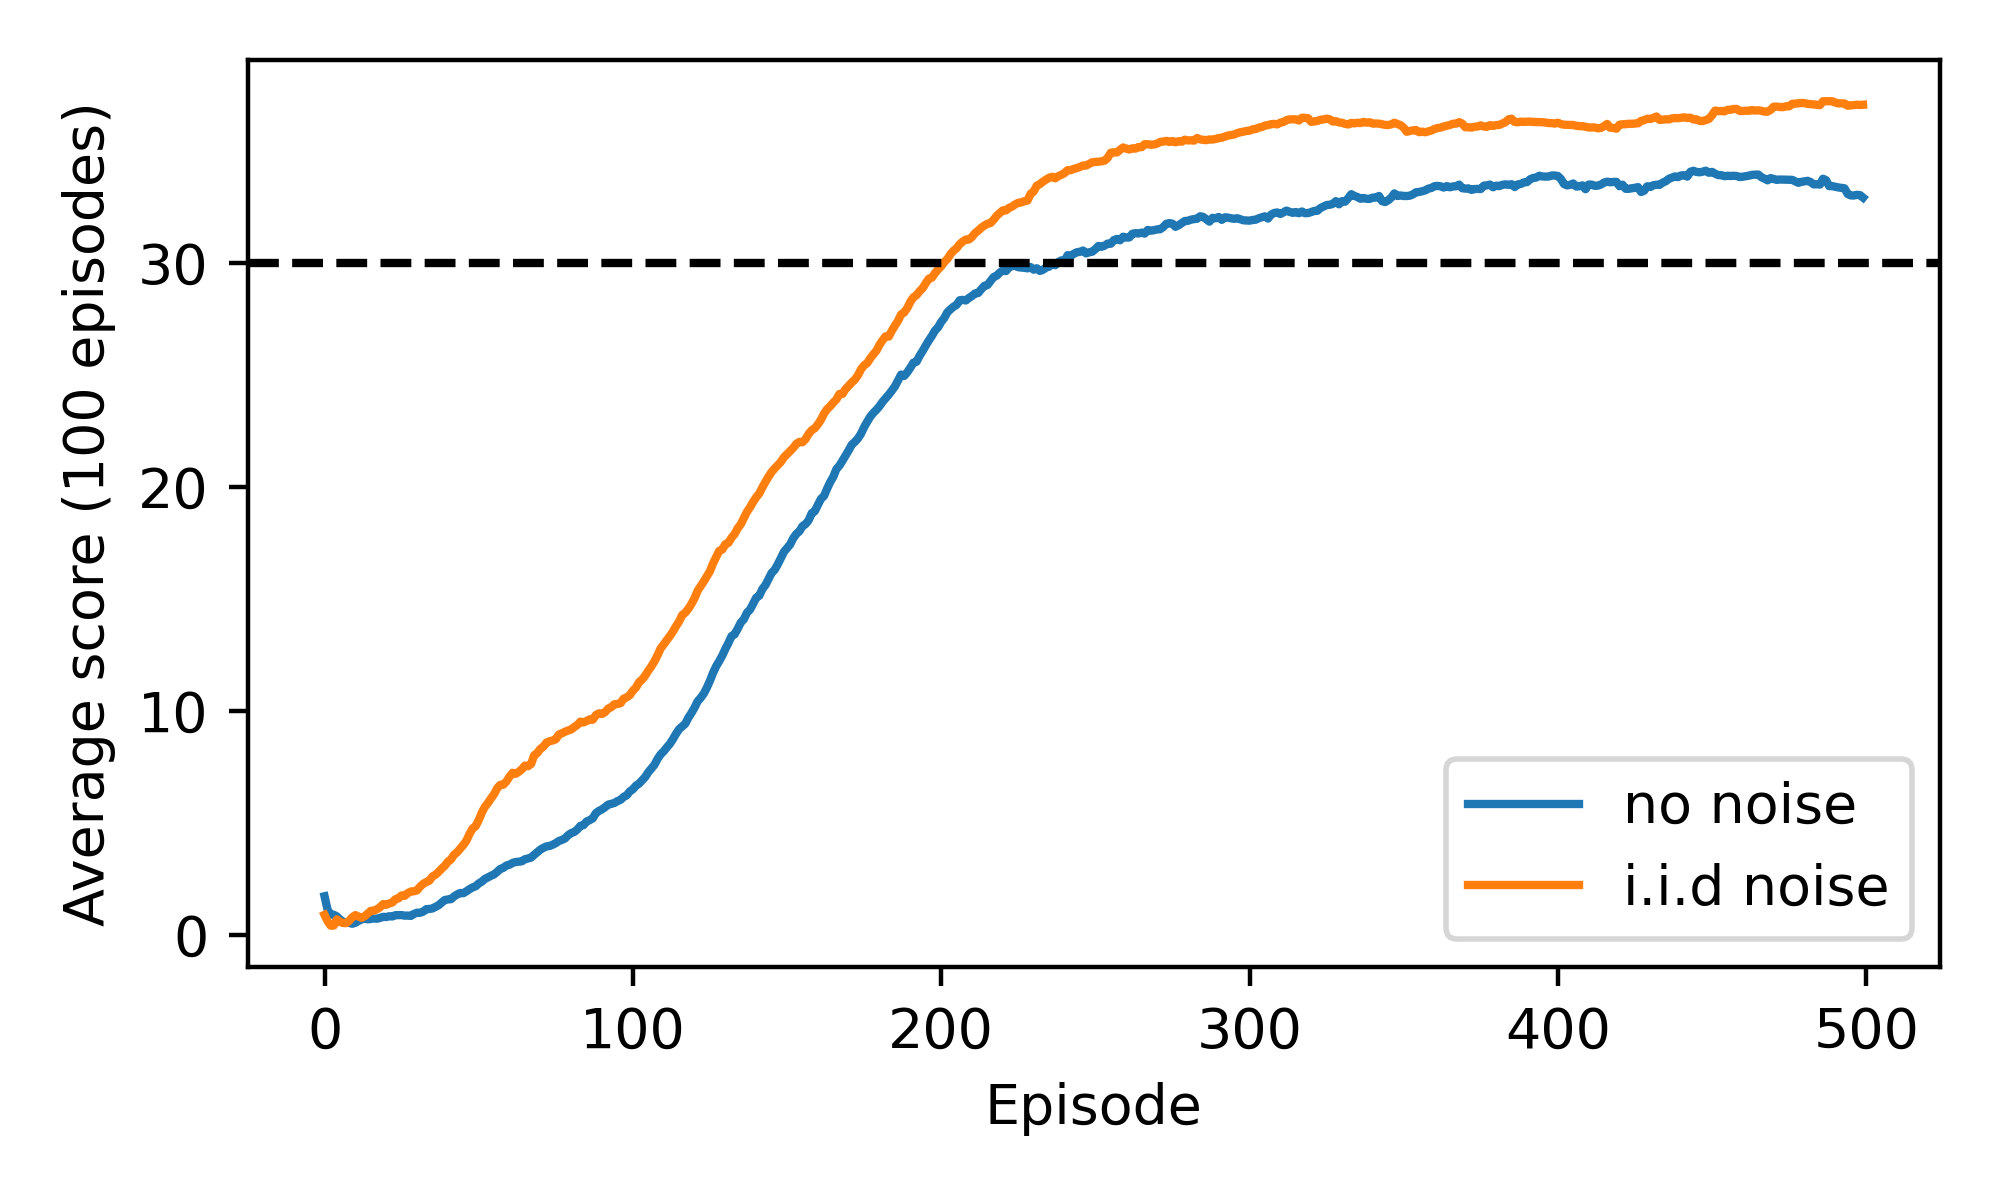
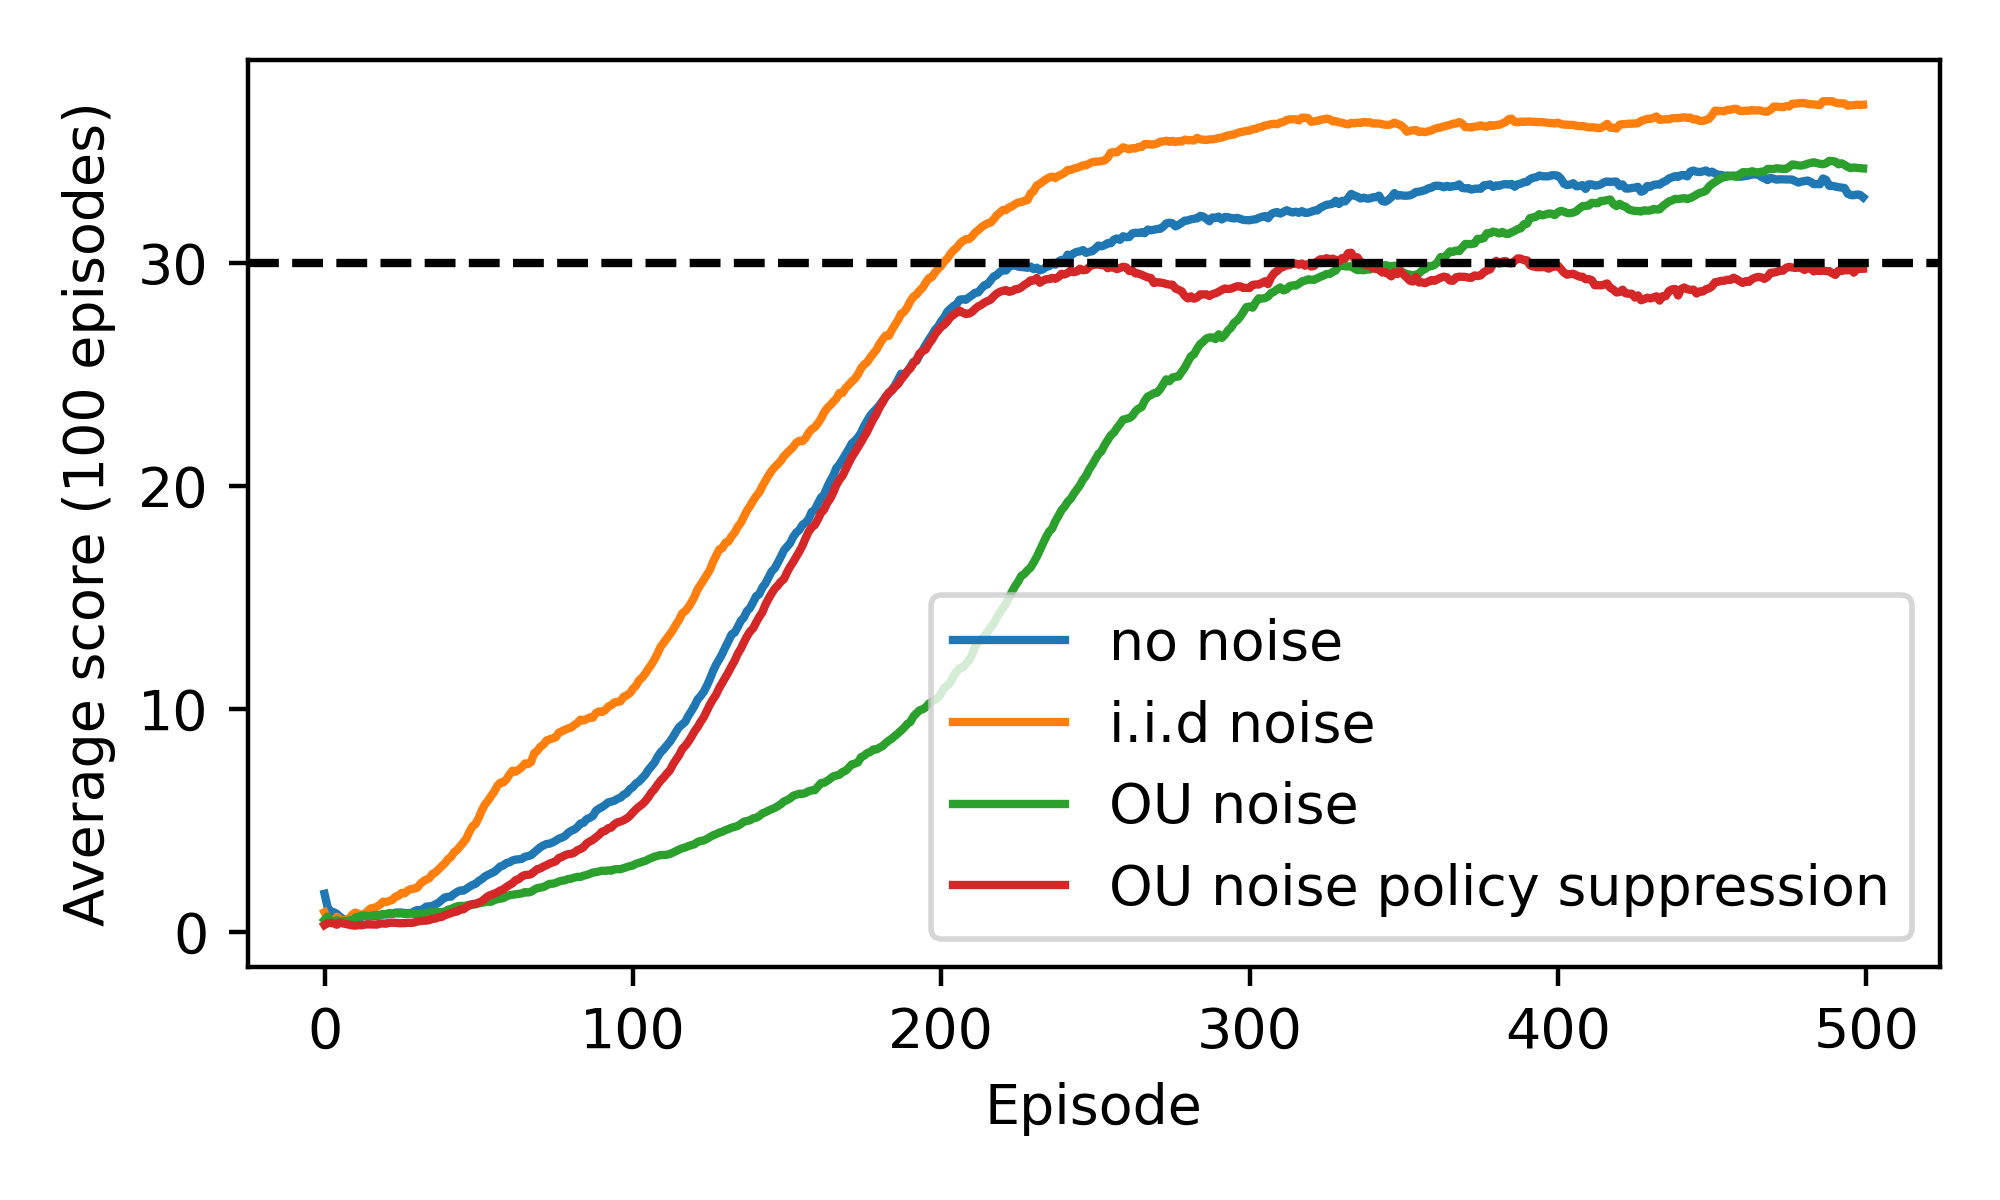
feat: Exploratory runs with noise generator

diff --git a/continuous_control.py b/continuous_control.py
@@ -18,7 +18,8 @@ control of an actuated robotic arm.
 from unityagents import UnityEnvironment
 from drlnd.common.agents import DDPGAgent
 from drlnd.common.agents.utils import ReplayBuffer, ActionType
-from drlnd.common.utils import get_next_results_directory, path_from_project_home
+from drlnd.common.utils import get_next_results_directory, path_from_project_home, \
+    OrnsteinUhlenbeckProcess, LinearSequence
 import numpy as np
 import torch
 import click
@@ -62,46 +63,62 @@ def cli():
 def train(n_episodes, note):
     """Train an agent in the 'one_agent' environment using DDPG.
     """
-    env, brain_name, num_agents, action_size, state_size = get_unity_env('./unity_environments/one_agent/Reacher_Linux/Reacher.x86_64')
+    env, brain_name, num_agents, action_size, state_size = \
+        get_unity_env('./unity_environments/one_agent/Reacher_Linux/Reacher.x86_64')
 
-    buffer = ReplayBuffer(action_size, int(1e6), 64, 1234, action_dtype = ActionType.CONTINUOUS)
+    buffer = ReplayBuffer(
+        action_size, 
+        int(1e6), 
+        64, 
+        1234, 
+        action_dtype = ActionType.CONTINUOUS
+        )
+
     agent = DDPGAgent(state_size, action_size, buffer)
 
     episode_scores = deque(maxlen=100)
     average_scores = []
+
     noise_fn_taper = 250
     scale = 1.0
+
     for i in range(n_episodes):
         print(f"Episode: {i}")
         env_info = env.reset(train_mode=True)[brain_name]
-        state = env_info.vector_observations                   # get the current state (for each agent)
+        state = env_info.vector_observations
         #print(f"Initial state: {state}")
-        score = 0.0                                            # initialize the score (for each agent)
+        score = 0.0
         
         # Include some noise in the action selection, which we linearly scale
         scale = max([1e-4, scale*(1.0-(float(i)/noise_fn_taper))])
-        noise_fn = lambda : torch.from_numpy(np.random.normal(loc=0.0, scale=scale, size=(1, action_size))).float()
+        #noise_fn = lambda : torch.from_numpy(np.random.normal(loc=0.0, scale=scale, size=(1, action_size))).float()
+        dt = np.random.choice([1e-2, 5e-2, 1e-1])
+        theta = np.random.choice([0.1, 0.5, 1.0])
+        noise_generator = OrnsteinUhlenbeckProcess((1, action_size), scale, dt=dt, theta=theta)
+        noise_fn = lambda : torch.from_numpy(noise_generator.sample()).float()
         while True:
             action = (
                 agent.act(
-                    torch.from_numpy(state).float(), 
+                    torch.from_numpy(state).float(),
+                    policy_suppression = (1.0 - scale), 
                     noise_func = noise_fn)
                     .numpy()
                     )
-            env_info = env.step([action])[brain_name]           # send all actions to tne environment
-            next_state = env_info.vector_observations         # get next state (for each agent)
-            reward = env_info.rewards                         # get reward (for each agent)
-            done = env_info.local_done                        # see if episode finished
+            env_info = env.step([action])[brain_name]
+            next_state = env_info.vector_observations
+            reward = env_info.rewards
+            done = env_info.local_done
             agent.replay_buffer.add(*state, *action, *reward, *next_state, *done)
             agent.learn(0.99)
 
-            score += env_info.rewards[0]                         # update the score (for each agent)
-            state = next_state                               # roll over states to next time step
-            if np.any(done):                                  # exit loop if episode finished
+            score += env_info.rewards[0]
+            state = next_state
+            if np.any(done):
                 break
+
         episode_scores.append(score)
         average_scores.append(np.mean(episode_scores))
-        print('Total score (averaged over agents) this episode: {}'.format(np.mean(score)))
+        print('Total score this episode: {}'.format(np.mean(score)))
 
     results_directory = get_next_results_directory()
     agent.save_weights(results_directory)
@@ -131,28 +148,31 @@ def run(weights_path: str, n_episodes: int):
     """Initialise an agent using pre-trained network weights and observe the 
     agent's interaction with the environment.
     """
-    env, brain_name, num_agents, action_size, state_size = get_unity_env('./unity_environments/one_agent/Reacher_Linux/Reacher.x86_64')
+    env, brain_name, num_agents, action_size, state_size = \
+        get_unity_env('./unity_environments/one_agent/Reacher_Linux/Reacher.x86_64')
 
-    buffer = ReplayBuffer(action_size, int(1e6), 64, 1234, action_dtype = ActionType.CONTINUOUS)
-    agent = DDPGAgent(state_size, action_size, buffer)
+    agent = DDPGAgent(state_size, action_size)
     if weights_path is None:
         weights_path = path_from_project_home('./resources/solved_weights/')
     agent.load_weights(weights_path)
+
+    noisy_actor = OrnsteinUhlenbeckProcess((1, action_size), 1.0, theta=.45, dt=1e-1)
+    #noisy_actor = lambda : np.random.normal(loc=0.0, scale=scale, size=(1, action_size))
 
     for i in range(n_episodes):
         print(f"Episode: {i}")
         env_info = env.reset(train_mode=False)[brain_name]
         state = env_info.vector_observations
-        score = 0.0                                            # initialize the score (for each agent)
+        score = 0.0
         for i in range(300):
-            action = agent.act(torch.from_numpy(state).float()).numpy() # select an action (for each agent)
-            env_info = env.step([action])[brain_name]           # send all actions to tne environment
-            state = env_info.vector_observations         # get next state (for each agent)
-            reward = env_info.rewards                         # get reward (for each agent)
-            done = env_info.local_done                        # see if episode finished
+            action = noisy_actor.sample() #agent.act(torch.from_numpy(state).float()).numpy() # select an action (for each agent)
+            env_info = env.step([action])[brain_name]
+            state = env_info.vector_observations
+            reward = env_info.rewards
+            done = env_info.local_done
 
-            score += env_info.rewards[0]                         # update the score (for each agent)
-            if np.any(done):                                  # exit loop if episode finished
+            score += env_info.rewards[0]
+            if np.any(done):
                 break
         print('Total score (averaged over agents) this episode: {}'.format(np.mean(score)))
 

diff --git a/Report.md b/Report.md
@@ -60,10 +60,10 @@ We have investigated how the learning process is affected by the particular
 distribution of noise that is added to the agent's actions in order to define
 the exploration policy. We have recorded how the agent learns when there is:
 
-1. No noise added.
-2. i.i.d noise added to each step in each episode.
+1. No noise added. (By this we mean that the action is generated only by the agent's policy network - which is randomly initialised - there is no additional noise distribution)
+2. i.i.d noise added to each step in each episode. (Actions generated by the policy network are summed with an additional contribution sampled from a normal distribution. The width of the distribution is tapered linearly over 250 episodes.)
 
-#TODO: Comparison Fig.
+<img src = "./resources/comparison.png" width="300"/>
 
 #TODO: GIF of agent.
 
